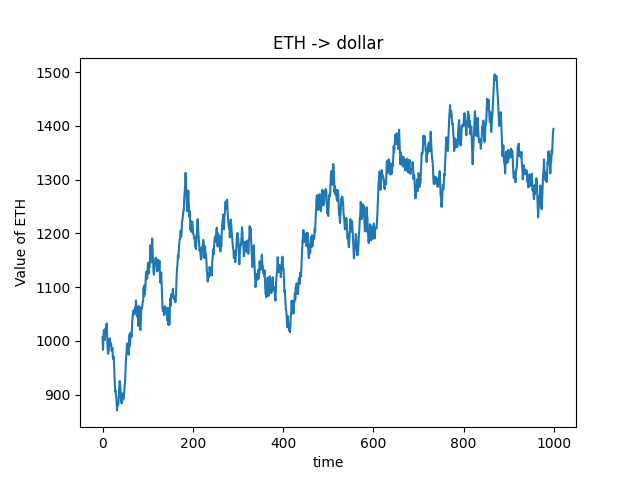
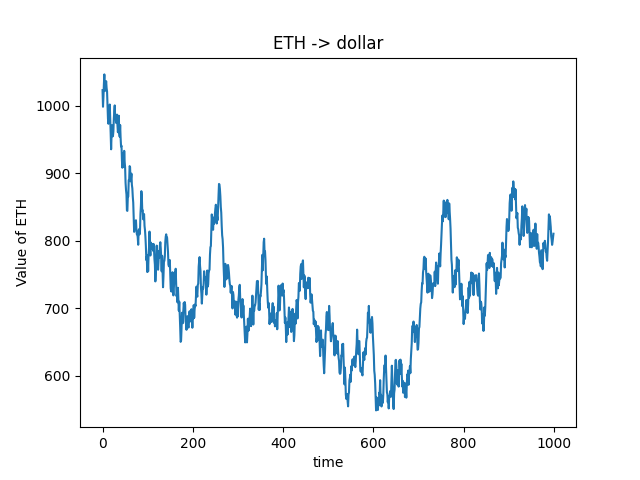
init fuzzy logic with cpi controller

diff --git a/simulations/controllers/pi_controller_stable.py b/simulations/controllers/pi_controller_stable.py
@@ -1,0 +1,131 @@
+import numpy as np
+from utils.constants import PID_CONTROLLER
+
+class ControllerGains(object):
+    def __init__(self, Kp: float, Ki: float):
+        self.Kp = Kp
+        self.Ki = Ki
+
+class DeviationObservation(object):
+    def __init__(self, timestamp: float, proportional: float, integral: float):
+        self.timestamp = timestamp
+        self.proportional = proportional
+        self.integral = integral
+        
+def getLastProportionalTerm() -> float:
+    if oll() == 0:
+        return 0
+    return deviationObservations[oll() - 1].proportional
+
+def getLastIntegralTerm() -> float:
+    if oll() == 0:
+        return 0
+    return deviationObservations[oll() - 1].integral
+
+def oll() -> int:
+    return len(deviationObservations)
+
+def getBoundedRedemptionRate(piOutput: float) -> float:
+    global defaultRedemptionRate
+    global defaultGlobalTimeline
+    global feedbackOutputUpperBound
+    global feedbackOutputLowerBound
+
+    boundedPIOutput = piOutput
+    newRedemptionRate = 0
+
+    if (piOutput < feedbackOutputLowerBound):
+        boundedPIOutput = feedbackOutputLowerBound
+    elif (piOutput > feedbackOutputUpperBound):
+        boundedPIOutput = feedbackOutputUpperBound
+
+    negativeOutputExceedsHundred = (boundedPIOutput < 0 and -boundedPIOutput >= defaultRedemptionRate)
+    if (negativeOutputExceedsHundred):
+        newRedemptionRate = PID_CONTROLLER.NEGATIVE_RATE_LIMIT
+    else:
+        if (boundedPIOutput < 0 and boundedPIOutput <= -PID_CONTROLLER.NEGATIVE_RATE_LIMIT):
+            newRedemptionRate = defaultRedemptionRate - PID_CONTROLLER.NEGATIVE_RATE_LIMIT
+        else:
+            newRedemptionRate = defaultRedemptionRate + boundedPIOutput
+
+    return newRedemptionRate
+
+def breaksNoiseBarrier(piSum: float, redemptionPrice: float) -> bool:
+    global noiseBarrier
+    deltaNoise = 2 - noiseBarrier
+    return piSum >= redemptionPrice * deltaNoise - redemptionPrice
+
+def getNextPriceDeviationCumulative(proportionalTerm: float, accumulatedLeak: float) -> tuple:
+    global priceDeviationCumulative
+
+    lastProportionalTerm = getLastProportionalTerm()
+    timeElapsed = PID_CONTROLLER.TIME_STEP # todo: check this
+    
+    newTimeAdjustedDeviation = riemannSum(proportionalTerm, lastProportionalTerm) * timeElapsed
+    leakedPriceCumulative = accumulatedLeak * priceDeviationCumulative
+
+    return (leakedPriceCumulative + newTimeAdjustedDeviation, newTimeAdjustedDeviation)
+
+def riemannSum(x: float, y: float) -> float:
+    return (x + y) / 2
+
+def absolute(x: float) -> float:
+    return np.abs(x)
+
+def getGainAdjustedPIOutput(proportionalTerm: float, integralTerm: float) -> float:
+    (adjustedProportional, adjustedIntegral) = getGainAdjustedTerms(proportionalTerm, integralTerm)
+    return adjustedProportional+ adjustedIntegral
+
+def getGainAdjustedTerms(proportionalTerm: float, integralTerm: float) -> tuple:
+    global controllerGains
+    return proportionalTerm * controllerGains.Kp, integralTerm * controllerGains.Ki
+
+# --- Rate Validation/Calculation ---
+def computeRateStable(marketPrice: float, redemptionPrice: float, accumulatedLeak: float) -> float:
+    global lastUpdateTime
+    global priceDeviationCumulative
+    proportionalTerm = redemptionPrice - marketPrice
+    updateDeviationHistory(proportionalTerm, accumulatedLeak)
+    lastUpdateTime = lastUpdateTime + PID_CONTROLLER.TIME_STEP
+    piOutput = getGainAdjustedPIOutput(proportionalTerm, priceDeviationCumulative)
+    newRedemptionRate = getBoundedRedemptionRate(piOutput)
+    return newRedemptionRate
+
+def updateDeviationHistory(proportionalTerm: float, accumulatedLeak: float) -> None:
+    global historicalCumulativeDeviations
+    global deviationObservations
+    global lastUpdateTime
+    global priceDeviationCumulative
+
+    (virtualDeviationCumulative, _) = getNextPriceDeviationCumulative(proportionalTerm, accumulatedLeak)
+    priceDeviationCumulative = virtualDeviationCumulative
+    historicalCumulativeDeviations.append(priceDeviationCumulative)
+    deviationObservations.append(DeviationObservation(lastUpdateTime + PID_CONTROLLER.TIME_STEP, proportionalTerm, priceDeviationCumulative))
+
+def updateRedemptionPriceStable(redemptionPrice:float, redemptionRate: float) -> float:
+    # Update redemption price
+    # print(redemptionRate)
+    redemptionPrice = (redemptionRate ** PID_CONTROLLER.TIME_STEP) * redemptionPrice
+    if redemptionPrice == 0:
+        redemptionPrice = 1
+
+    # Return updated redemption price
+    return redemptionPrice
+
+deviationObservations = []
+defaultRedemptionRate = 1
+defaultGlobalTimeline = 1
+historicalCumulativeDeviations = []
+feedbackOutputUpperBound = 0.5
+feedbackOutputLowerBound = -0.5
+integralPeriodSize = PID_CONTROLLER.TIME_STEP
+controllerGains = ControllerGains(7.5*10**(-8), 2.4*10**(-14))
+priceDeviationCumulative = 0.99999
+noiseBarrier = 0.05
+lastUpdateTime = 0
+historicalCumulativeDeviations.append(priceDeviationCumulative)
+ok = True
+
+if __name__ == "__main__":
+    rr = computeRateStable(2.71, 2.8, 0)
+    rp = updateRedemptionPriceStable(100, rr)

diff --git a/simulations/controllers/pi_controller_cpi.py b/simulations/controllers/pi_controller_cpi.py
@@ -1,7 +1,5 @@
 import numpy as np
-
-TIME_STEP = 10000
-NEGATIVE_RATE_LIMIT = 0.99
+from utils.constants import PID_CONTROLLER
 
 class ControllerGains(object):
     def __init__(self, Kp: float, Ki: float):
@@ -43,10 +41,10 @@ def getBoundedRedemptionRate(piOutput: float) -> float:
 
     negativeOutputExceedsHundred = (boundedPIOutput < 0 and -boundedPIOutput >= defaultRedemptionRate)
     if (negativeOutputExceedsHundred):
-        newRedemptionRate = NEGATIVE_RATE_LIMIT
+        newRedemptionRate = PID_CONTROLLER.NEGATIVE_RATE_LIMIT
     else:
-        if (boundedPIOutput < 0 and boundedPIOutput <= -NEGATIVE_RATE_LIMIT):
-            newRedemptionRate = defaultRedemptionRate - NEGATIVE_RATE_LIMIT
+        if (boundedPIOutput < 0 and boundedPIOutput <= -PID_CONTROLLER.NEGATIVE_RATE_LIMIT):
+            newRedemptionRate = defaultRedemptionRate - PID_CONTROLLER.NEGATIVE_RATE_LIMIT
         else:
             newRedemptionRate = defaultRedemptionRate + boundedPIOutput
 
@@ -61,7 +59,7 @@ def getNextPriceDeviationCumulative(proportionalTerm: float, accumulatedLeak: fl
     global priceDeviationCumulative
 
     lastProportionalTerm = getLastProportionalTerm()
-    timeElapsed = TIME_STEP # todo: check this
+    timeElapsed = PID_CONTROLLER.TIME_STEP # todo: check this
     
     newTimeAdjustedDeviation = riemannSum(proportionalTerm, lastProportionalTerm) * timeElapsed
     leakedPriceCumulative = accumulatedLeak * priceDeviationCumulative
@@ -83,12 +81,12 @@ def getGainAdjustedTerms(proportionalTerm: float, integralTerm: float) -> tuple:
     return proportionalTerm * controllerGains.Kp, integralTerm * controllerGains.Ki
 
 # --- Rate Validation/Calculation ---
-def computeRate(marketPrice: float, redemptionPrice: float, accumulatedLeak: float) -> float:
+def computeRateCPI(marketPrice: float, redemptionPrice: float, accumulatedLeak: float) -> float:
     global lastUpdateTime
     global priceDeviationCumulative
     proportionalTerm = redemptionPrice - marketPrice
     updateDeviationHistory(proportionalTerm, accumulatedLeak)
-    lastUpdateTime = lastUpdateTime + TIME_STEP
+    lastUpdateTime = lastUpdateTime + PID_CONTROLLER.TIME_STEP
     piOutput = getGainAdjustedPIOutput(proportionalTerm, priceDeviationCumulative)
     newRedemptionRate = getBoundedRedemptionRate(piOutput)
     return newRedemptionRate
@@ -102,12 +100,12 @@ def updateDeviationHistory(proportionalTerm: float, accumulatedLeak: float) -> N
     (virtualDeviationCumulative, _) = getNextPriceDeviationCumulative(proportionalTerm, accumulatedLeak)
     priceDeviationCumulative = virtualDeviationCumulative
     historicalCumulativeDeviations.append(priceDeviationCumulative)
-    deviationObservations.append(DeviationObservation(lastUpdateTime + TIME_STEP, proportionalTerm, priceDeviationCumulative))
+    deviationObservations.append(DeviationObservation(lastUpdateTime + PID_CONTROLLER.TIME_STEP, proportionalTerm, priceDeviationCumulative))
 
-def updateRedemptionPrice(redemptionPrice:float, redemptionRate: float) -> float:
+def updateRedemptionPriceCPI(redemptionPrice:float, redemptionRate: float) -> float:
     # Update redemption price
     # print(redemptionRate)
-    redemptionPrice = (redemptionRate ** TIME_STEP) * redemptionPrice
+    redemptionPrice = (redemptionRate ** PID_CONTROLLER.TIME_STEP) * redemptionPrice
     if redemptionPrice == 0:
         redemptionPrice = 1
 
@@ -120,8 +118,8 @@ defaultGlobalTimeline = 1
 historicalCumulativeDeviations = []
 feedbackOutputUpperBound = 0.5
 feedbackOutputLowerBound = -0.5
-integralPeriodSize = TIME_STEP
-controllerGains = ControllerGains(7.5*10**(-8), 2.4*10**(-14))
+integralPeriodSize = PID_CONTROLLER.TIME_STEP
+controllerGains = ControllerGains(0, 7.5*10**(-10))
 priceDeviationCumulative = 0.99999
 noiseBarrier = 0.05
 lastUpdateTime = 0
@@ -129,5 +127,5 @@ historicalCumulativeDeviations.append(priceDeviationCumulative)
 ok = True
 
 if __name__ == "__main__":
-    rr = computeRate(2.71, 2.8, 0)
-    rp = updateRedemptionPrice(100, rr)
+    rr = computeRateCPI(2.71, 2.8, 0)
+    rp = updateRedemptionPriceCPI(100, rr)

diff --git a/simulations/classes/price_station.py b/simulations/classes/price_station.py
@@ -1,6 +1,6 @@
 from classes.ext_data import ExtData
 from classes.pool import Pool
-from controllers.pi_controller import updateRedemptionPrice, computeRate
+from controllers.fuzzy_module import calculate_rp_and_rr
 from utils.constants import TWAP_TIMESTAMPS
 
 class PriceStation:
@@ -32,7 +32,7 @@ class PriceStation:
     def calculate_market_twap(self):
         if self.num_steps >= TWAP_TIMESTAMPS:
             self.market_sum -= self.graph.m_prices[len(self.graph.m_prices)-TWAP_TIMESTAMPS]
-        
+
         self.market_sum += self.mp
         self.num_steps = min(self.num_steps+1, TWAP_TIMESTAMPS)
         return self.market_sum / self.num_steps
@@ -41,15 +41,8 @@ class PriceStation:
         self.update_mp(pool, ext_data)
         return self.mp
 
-    def calculate_redemption_price(self):
-        rr = self.calculate_redemption_rate()
-
-        self.rp = updateRedemptionPrice(self.rp, rr)
-        self.rr = rr
-
-    def calculate_redemption_rate(self):
-        rr = computeRate(self.market_twap, self.rp, self.accumulated_leak)
-        return rr
+    def calculate_redemption_price(self, ext_data: ExtData):
+        self.rp, self.rr = calculate_rp_and_rr(self.market_twap, self.rp, self.accumulated_leak, ext_data)
     
     #returns the value of noi in usd with market price
     #input: amount of noi

diff --git a/simulations/controllers/fuzzy_module.py b/simulations/controllers/fuzzy_module.py
@@ -1,0 +1,28 @@
+from controllers.pi_controller_stable import updateRedemptionPriceStable, computeRateStable
+from controllers.pi_controller_cpi import computeRateCPI
+from classes.ext_data import ExtData
+
+def calculate_rp_and_rr(market_twap, redemption_price, accumulated_leak, ext_data: ExtData):
+    rr_stable = computeRateStable(market_twap, redemption_price, accumulated_leak)
+    rr_cpi = computeRateCPI(market_twap, redemption_price, accumulated_leak)
+    err_stable_perc = abs(market_twap - redemption_price) / redemption_price
+    err_cpi_perc = abs(market_twap - ext_data.get_cpi_value()) / redemption_price
+    w_stable = 0
+    w_cpi = 0
+    if err_stable_perc > 0.1:
+        w_stable, w_cpi = 1, 0
+    elif err_stable_perc > 0.5:
+        w_stable, w_cpi = 0.95, 0.05
+    elif err_stable_perc > 0.4:
+        w_stable, w_cpi = 0.9, 0.1
+    elif err_stable_perc > 0.3:
+        w_stable, w_cpi = 0.85, 0.15
+    else:
+        w_stable, w_cpi = 0.8, 0.2
+    rr = w_stable * rr_stable + w_cpi * rr_cpi
+
+
+    return updateRedemptionPrice(redemption_price, rr), rr
+
+def updateRedemptionPrice(redemption_price, redemption_rate):
+    return updateRedemptionPriceStable(redemption_price, redemption_rate)

diff --git a/simulations/utils/constants.py b/simulations/utils/constants.py
@@ -2,7 +2,7 @@
 ONE_ETH = 500
 
 class PRICE_TRADER:
-    NUM = 100
+    NUM = 200
 
     ETH_AMOUNT = 1
     NOI_AMOUNT = ETH_AMOUNT * ONE_ETH
@@ -18,7 +18,7 @@ class PRICE_TRADER:
     BOUND_LOW = 1 - BOUND_HIGH - BOUND_MID
 
 class RATE_TRADER:
-    NUM = 100
+    NUM = 200
 
     ETH_AMOUNT = 1
     NOI_AMOUNT = ETH_AMOUNT * ONE_ETH
@@ -65,7 +65,7 @@ class LEVERAGER:
     RELATIVE_GAP_SAFE = 0.5
 
 class SAFE_OWNER:
-    NUM = 400
+    NUM = 200
 
     ETH_AMOUNT = 5
 
@@ -94,7 +94,7 @@ class SAFE_OWNER:
     RELATIVE_GAP_SAFE = 0.5
 
 class WHALE_INSTANT_PRICE_SETTER:
-    NUM = 1
+    NUM = 0
 
     ETH_AMOUNT = 15
     NOI_AMOUNT = ETH_AMOUNT * ONE_ETH
